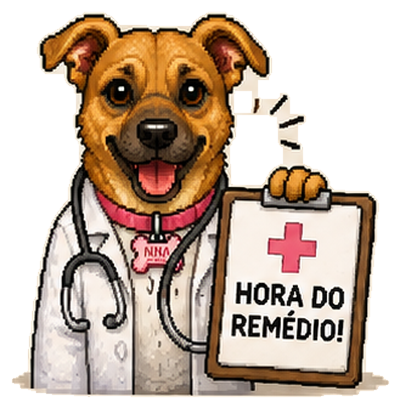
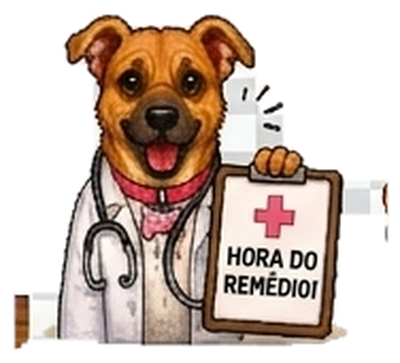
Usa as novas ilustracoes da Nina (prancha ja veio com transparencia), inclui novo GIF de lambida

diff --git a/web/src/utils/versao.js b/web/src/utils/versao.js
@@ -1,4 +1,4 @@
 // Atualizo esse número toda vez que envio uma mudança —
 // serve pra você confirmar se o app realmente atualizou no celular.
-export const VERSAO = '1.11.3';
-export const VERSAO_DESCRICAO = 'Corrige buracos residuais nas imagens (fechamento morfologico maior)';
+export const VERSAO = '1.12.0';
+export const VERSAO_DESCRICAO = 'Novas ilustracoes da Nina (ja com fundo transparente de verdade)';
